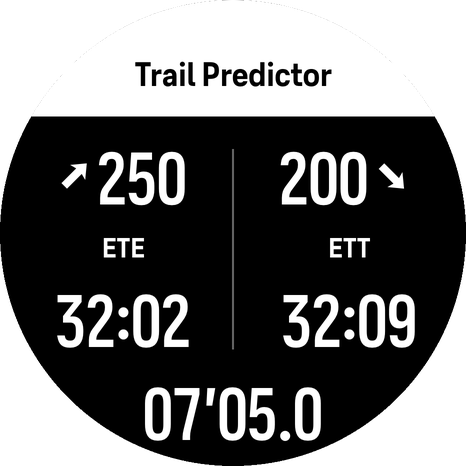
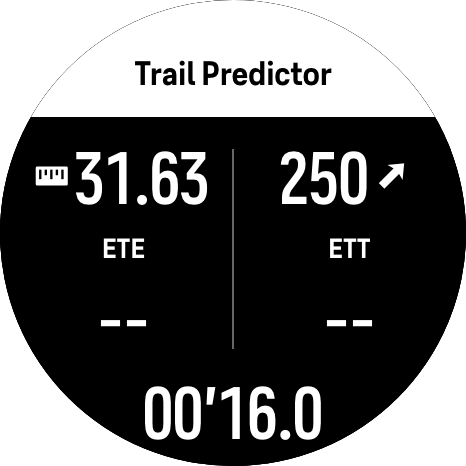
The app now shows remaining distance and ascent. There is still a bug in new watches, the large screen is not recognized. The screenshot still needs to be updated before publishing.

diff --git a/t.html b/t.html
@@ -21,7 +21,7 @@
 
     <!-- top left -->
 <:if test="{APP_IS_DISPLAY_LARGE}">
-    <div class="f-ico" style="top:calc(35% - 100%e);left:calc(26% - 50%e)">&#xF112;</div>
+    <div class="f-ico" style="top:calc(35% - 100%e);left:calc(26% - 50%e)">&#xF102;</div>
     <div class="sp-d-m f-num" style="top:calc(41% - 50%e);left:calc(26% - 50%e)">
       <eval input="{zapp_tl_input}" outputFormat="{zapp_tl_format}" default="--" />
     </div>
@@ -29,7 +29,7 @@
 <:else>
     <div style="top:26%;left:3%;width:46%;height:30%">
       <div class="p-hc sp-vertical-center">
-        <span class="f-ico" style="padding-right:4px">&#xF112;</span>
+        <span class="f-ico" style="padding-right:4px">&#xF102;</span>
         <span class="sp-d-s f-num">
           <eval input="{zapp_tl_input}" outputFormat="{zapp_tl_format}" default="--" />
         </span>
@@ -39,8 +39,8 @@
 
     <!-- top right -->
 <:if test="{APP_IS_DISPLAY_LARGE}">    
-    <div class="f-ico" style="top:calc(35% - 100%e);left:calc(74% - 50%e)">&#xF113;</div>
-    <div class="sp-d-m f-num c-green" style="top:calc(41% - 50%e);left:calc(74% - 50%e)">
+    <div class="f-ico" style="top:calc(35% - 100%e);left:calc(74% - 50%e)">&#xF112;</div>
+    <div class="sp-d-m f-num" style="top:calc(41% - 50%e);left:calc(74% - 50%e)">
       <eval input="{zapp_tr_input}" outputFormat="{zapp_tr_format}" default="--" />
     </div>
 </:if>
@@ -50,7 +50,7 @@
         <span class="sp-d-s f-num">
           <eval input="{zapp_tr_input}" outputFormat="{zapp_tr_format}" default="--" />
         </span>
-        <span class="f-ico" style="padding-left:4px">&#xF113;</span>
+        <span class="f-ico" style="padding-left:4px">&#xF112;</span>
       </div>
     </div>   
 </:else>

diff --git a/main.js b/main.js
@@ -77,8 +77,8 @@ function onExerciseContinue()
 function getUserInterface() {
   return {
     template: 't',
-    tl: {input: 'output/remaining_ascent', format: 'Ascent_Sixdigits'},
-    tr: {input: 'output/remaining_descent', format: 'Descent_Sixdigits'},
+    tl: {input: 'output/remaining_distance', format: 'NavigationRouteDistance_Fourdigits'},
+    tr: {input: 'output/remaining_ascent', format: 'Ascent_Sixdigits'},
     ml: {input: 'output/ete', label: 'ETE', format: IS_LARGE_DISPLAY ? 'Duration_Training' : 'Duration_Humane'},
     mr: {input: 'output/ett', label: 'ETT', format: IS_LARGE_DISPLAY ? 'Duration_Training' : 'Duration_Humane'},
     bottom: {input: 'Activity/Move/-1/Duration/Current', format: 'Duration_Accurate'}

diff --git a/README.md b/README.md
@@ -16,7 +16,16 @@ A Suunto Plus watch application that predicts estimated remaining time (`ETE`) a
   - `ETE`: estimated time en route left
   - `ETT`: estimated time to finish
 
+## Display
+
+- Top row: remaining distance and remaining ascent (icon-labeled, unit-aware formatting)
+- Middle row: ETE and ETT
+- Bottom row: current activity duration
+- Durations use the sport-style format on large displays (`1:23'45`) and a compact format on small displays (`23'45` / `2:05`)
+- Predictions appear after ~60 s and ~250 m of activity — the app waits for enough real movement data before showing an estimate
+
 ## Notes
 
-- The current speed formula in `main.js` uses combined metrics, which is typical for trail time predictors (flat + up/down weighting).
-- If using route nav, predicted remaining stats are authoritative from navigation provider.
+- The current speed formula in `main.js` weights distance, ascent (×0.6 per 100 m) and descent (×0.4 per 100 m) — a Naismith-style trail model.
+- If using route nav, remaining stats are authoritative from navigation provider.
+- Remaining descent is used by the prediction but is not shown on screen.
